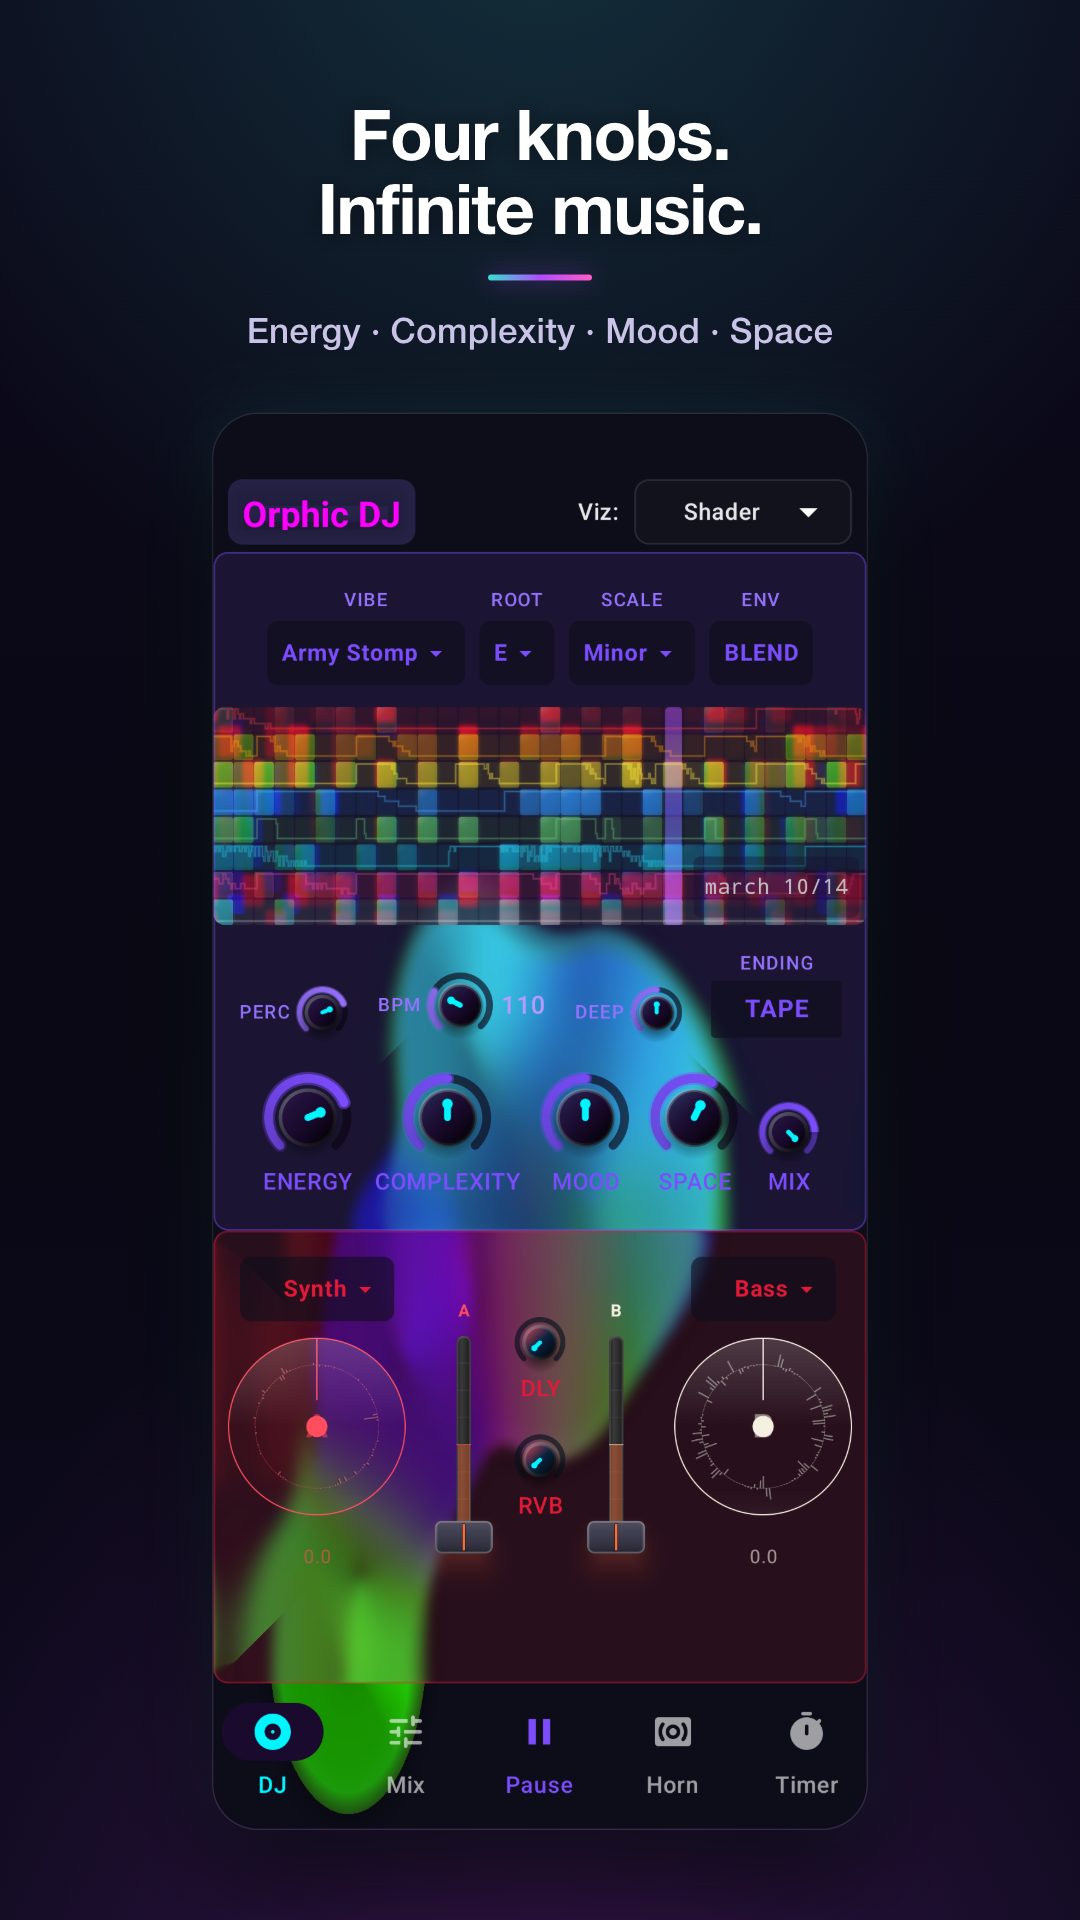
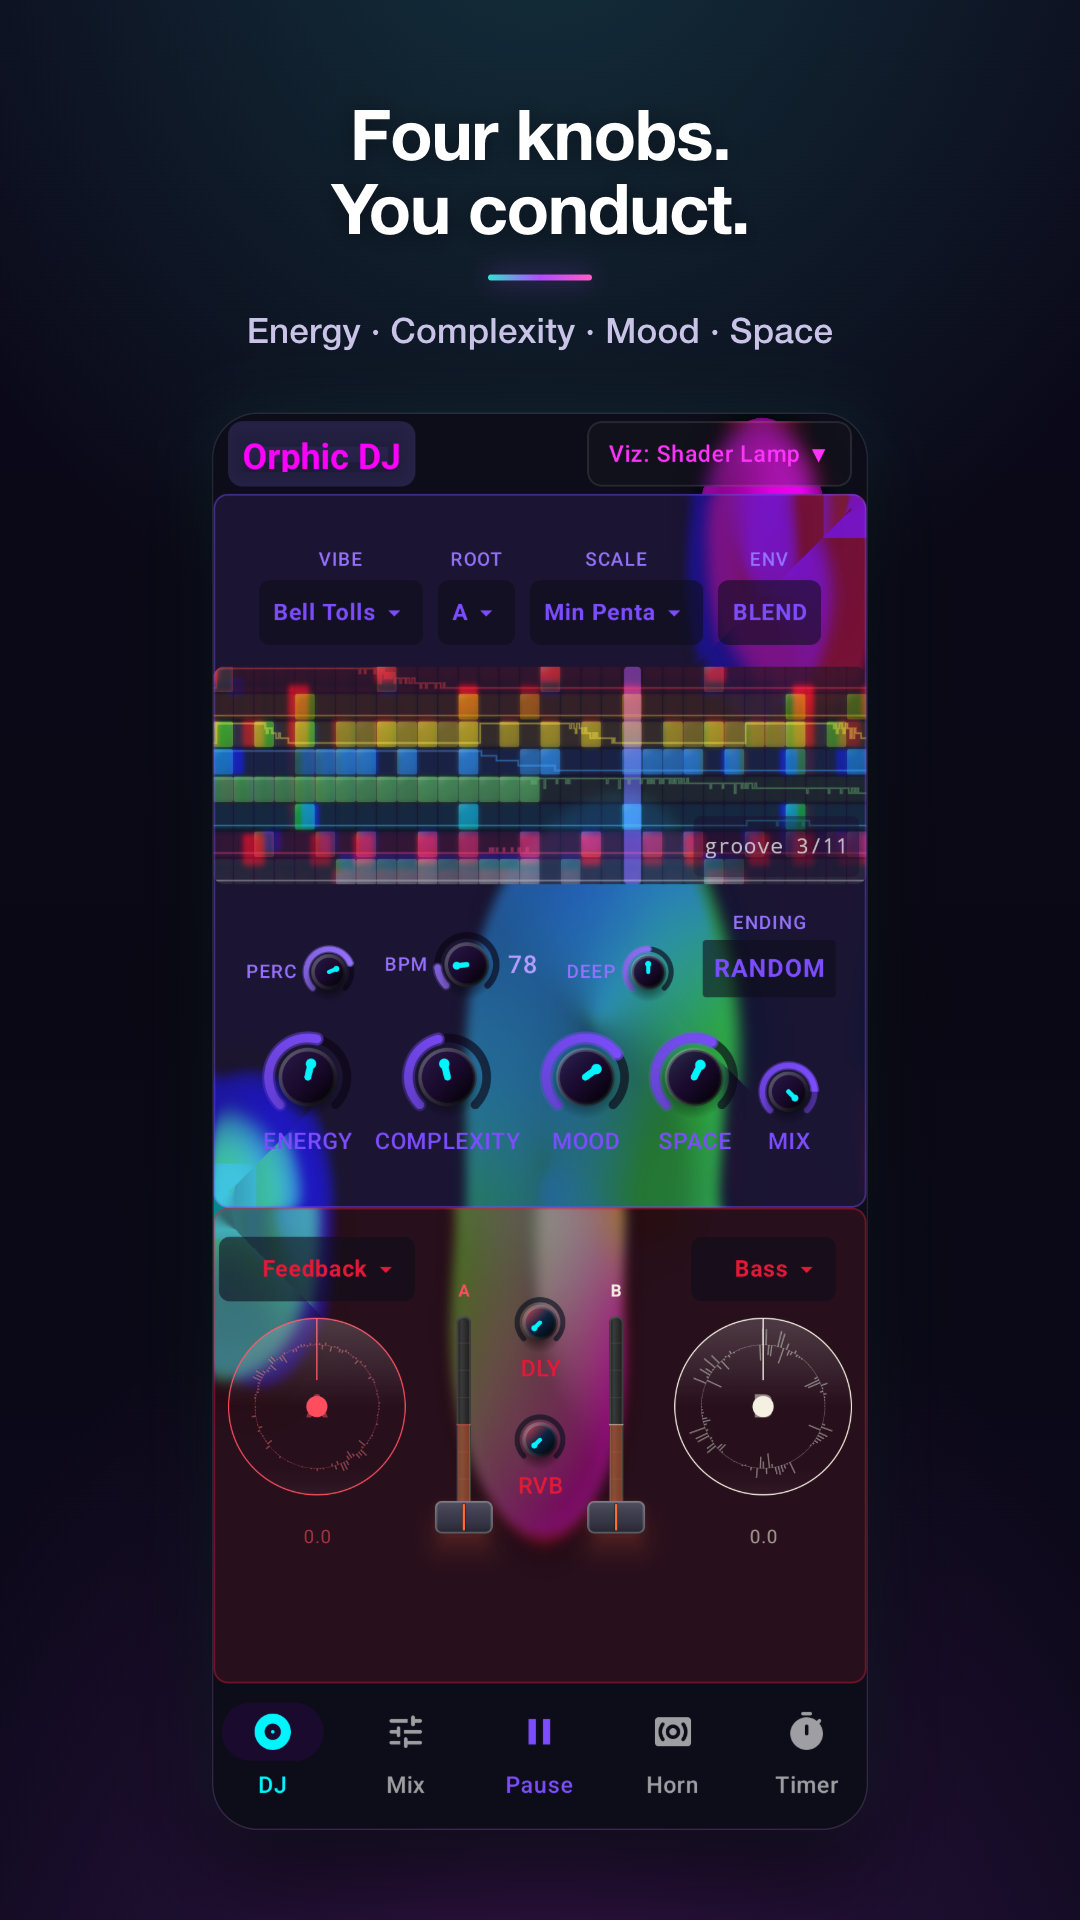
docs(djapp): Play listing refresh — "Play It Live" reposition, 9 vibes, fresh screenshots
- Title: "Orphic DJ: Generative Music" -> "Orphic DJ: Play It Live" (leads with the
  live/interactive hook, the app's real differentiator; exits the contested
  "generative music" keyword neighborhood).
- Short + full descriptions reframed live-first: you perform it with four knobs; the
  generative engine is the magic underneath (kept "never repeats" payoff).
- Corrected vibe count 11 -> 9 everywhere (Comp Pad + Garage Blitz are parked via /* */;
  visualizations stay 11). Hero + feature graphics now lead with 11 Visualizations,
  then 9 Original Vibes.
- Re-captured screenshots 2 ("Four knobs. You conduct." over the live DJ view) and
  3 ("Pick your vibe" over the current 9-vibe picker) from device, removing the retired
  Army Stomp vibe. Re-rendered hero-card + feature-graphic via the Playwright pipeline.

Changed region(s): [[0.1833, 0.2188, 0.825, 0.9688], [0.275, 0.0938, 0.7028, 0.125]]

diff --git a/apps/djapp/play-store/assets/framed/feature-graphic.html b/apps/djapp/play-store/assets/framed/feature-graphic.html
@@ -72,9 +72,9 @@
       <text x="48" y="171" font-size="21" font-weight="600" letter-spacing="4" fill="#C9C4E8">AN INTERACTIVE ALBUM</text>
 
       <text x="600" y="95" font-size="44" font-weight="800" text-anchor="end" fill="url(#accentV)">11</text>
-      <text x="624" y="95" font-size="25" font-weight="600" fill="#F4F1FE">Original Vibes</text>
-      <text x="600" y="147" font-size="44" font-weight="800" text-anchor="end" fill="url(#accentV)">11</text>
-      <text x="624" y="147" font-size="25" font-weight="600" fill="#F4F1FE">Visualizations</text>
+      <text x="624" y="95" font-size="25" font-weight="600" fill="#F4F1FE">Visualizations</text>
+      <text x="600" y="147" font-size="44" font-weight="800" text-anchor="end" fill="url(#accentV)">9</text>
+      <text x="624" y="147" font-size="25" font-weight="600" fill="#F4F1FE">Original Vibes</text>
       <text x="600" y="199" font-size="44" font-weight="800" text-anchor="end" fill="url(#accentV)">8</text>
       <text x="624" y="199" font-size="25" font-weight="600" fill="#F4F1FE">Generative Tracks</text>
       <text x="600" y="251" font-size="44" font-weight="800" text-anchor="end" fill="url(#accentV)">5</text>

diff --git a/apps/djapp/play-store/assets/framed/hero-card.html b/apps/djapp/play-store/assets/framed/hero-card.html
@@ -94,7 +94,7 @@
     <g font-family="-apple-system, 'Helvetica Neue', Arial, sans-serif">
       <g font-size="66" font-weight="800" text-anchor="end" fill="url(#accentV)">
         <text x="395" y="965">11</text>
-        <text x="395" y="1072">11</text>
+        <text x="395" y="1072">9</text>
         <text x="395" y="1179">8</text>
         <text x="395" y="1286">5</text>
         <text x="395" y="1393">4</text>
@@ -102,8 +102,8 @@
         <text x="395" y="1607">1</text>
       </g>
       <g font-size="42" font-weight="600" fill="#F4F1FE">
-        <text x="423" y="965">Original Vibes</text>
-        <text x="423" y="1072">Visualizations</text>
+        <text x="423" y="965">Visualizations</text>
+        <text x="423" y="1072">Original Vibes</text>
         <text x="423" y="1179">Generative Tracks</text>
         <text x="423" y="1286">Mixer Controls</text>
         <text x="423" y="1393">Ambiance Knobs</text>

diff --git a/apps/djapp/play-store/assets/framed/frame.html b/apps/djapp/play-store/assets/framed/frame.html
@@ -109,12 +109,12 @@
     const FRAMES = [
       {
         img: "../screenshots/01-hero.png",
-        headline: "Four knobs.\nInfinite music.",
+        headline: "Four knobs.\nYou conduct.",
         subhead: "Energy · Complexity · Mood · Space",
       },
       {
         img: "../screenshots/03-vibe-picker.png",
-        headline: "A dozen vibes,\nendless variations",
+        headline: "Pick your vibe,\nendless variations",
         subhead: "From upbeat grooves to deep ambient drones",
       },
       {

diff --git a/apps/djapp/play-store/listing.md b/apps/djapp/play-store/listing.md
@@ -11,7 +11,7 @@ comments, and recover the text if you need to re-submit.
 
 | Field | Value |
 |-------|-------|
-| App name | `Orphic DJ: Generative Music` *(Play store title, 27 chars — keyword-bearing; title is Play's highest-weight ranking field and "Orphic" has ~zero search pull, so the descriptor earns its place. On-device launcher label stays `Orphic DJ`.)* |
+| App name | `Orphic DJ: Play It Live` *(Play store title, 23 chars. Leads with the live/interactive hook, the app's real differentiator, and exits the contested "generative music" keyword. Title is Play's highest-weight ranking field. On-device launcher label stays `Orphic DJ`.)* |
 | Default language | English (US) |
 | Category — primary | Music & Audio |
 | Category — secondary | _(optional, see "Tags" below)_ |
@@ -27,7 +27,7 @@ This is the line that appears under the app name in search results and on the
 detail page. It's the most read piece of copy in the listing — your one-line
 pitch.
 
-**Easy. Playful. Infinite. Free generative music for focus, sleep & parties.**
+**Easy. Playful. Infinite. Live electronic music for focus, sleep & parties.**
 
 ### Constraints
 
@@ -45,9 +45,9 @@ Shown on the listing detail page. Most users scan; few read every word. Format
 matters more than total length.
 
 ```
-Orphic DJ is an interactive album of original generative music that composes itself, live on your device, endlessly. Press play, and no two listens are ever the same.
+Orphic DJ is live electronic music you perform with four knobs. No decks, no skills, no two performances alike. Twist Energy, Complexity, Mood, and Space and the music reshapes around you in real time. Open the DJ module to drop effects and ride the mix. Underneath, it composes itself endlessly, so every performance is a piece that never repeats.
 
-No streaming. No library. No playlists. Just four knobs and music that never repeats.
+No streaming. No library. No playlists. Just four knobs and music you play.
 
 WHAT YOU CONTROL
 Four knobs shape the entire mix:
@@ -57,7 +57,7 @@ Four knobs shape the entire mix:
 • Space: from intimate and dry to vast and reverberant
 
 WHAT'S INSIDE
-• 11 original vibes
+• 9 original vibes
 • 11 live visualizations
 • 8 generative tracks
 • 5 mixer controls
